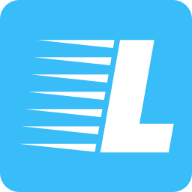
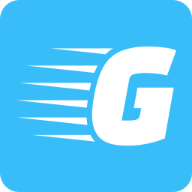
re-update brand

Changed region(s): [[0.0938, 0.1875, 0.9375, 0.8125]]

diff --git a/index.html b/index.html
@@ -6,7 +6,7 @@
       name="viewport"
       content="width=device-width, initial-scale=1.0, user-scalable=no"
     />
-    <title>LocaTrack</title>
+    <title>GPSafe</title>
     <meta name="theme-color" content="#0a0e1a" />
     <link rel="manifest" href="manifest.json" />
     <link
@@ -68,7 +68,7 @@
               </linearGradient>
             </defs>
           </svg>
-          <span class="brand-name">FamilyTrack</span>
+          <span class="brand-name">GPSafe</span>
         </div>
         <h1>Bienvenido</h1>
         <p class="login-sub">Iniciá sesión para ver y compartir tu ubicación</p>
@@ -120,7 +120,7 @@
               </linearGradient>
             </defs>
           </svg>
-          <span class="brand-name">LocaTrack</span>
+          <span class="brand-name">GPSafe</span>
         </div>
         <h1>Crear cuenta</h1>
         <p class="login-sub">
@@ -186,7 +186,7 @@
               </linearGradient>
             </defs>
           </svg>
-          <span class="header-title">LocaTrack</span>
+          <span class="header-title">GPSafe</span>
         </div>
         <div class="header-right">
           <div class="user-chip">

diff --git a/assets/js/app.js b/assets/js/app.js
@@ -504,7 +504,7 @@ document
     const user = await getUserByEmail(email);
 
     if (!user) {
-      resultEl.textContent = `❌ No existe ningún usuario registrado con el email "${email}". Pedile que se registre primero en LocaTrack.`;
+      resultEl.textContent = `❌ No existe ningún usuario registrado con el email "${email}". Pedile que se registre primero en GPSafe.`;
       resultEl.className = "invite-result error";
       return;
     }
